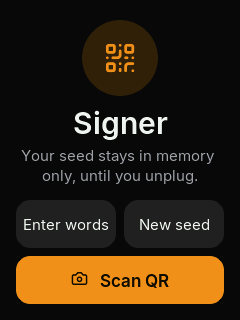
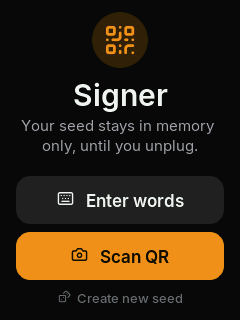
Home: group Scan QR with Enter words, set Create new seed apart
Both load a seed you have, so they stack together at the bottom; making a
new seed is a separate job and becomes a quiet link below them.

diff --git a/firmware/src/app/ui.cpp b/firmware/src/app/ui.cpp
@@ -72,22 +72,22 @@ static lv_obj_t *qr_card(lv_obj_t *parent, int y, lv_obj_t **qr_out) {
 }
 
 // ---------------------------------------------------------------- home
+static lv_obj_t *quiet_link(lv_obj_t *parent, const char *s, lv_event_cb_t cb, void *ud);
+
 static void build_home() {
     lv_obj_t *scr = screen();
-    lv_obj_align(icon_badge(scr, ICON_QR, ACCENT, ACCENT_DIM, 76), LV_ALIGN_TOP_MID, 0, 20);
-    lv_obj_align(text(scr, "Signer", &inter_30_semi, TEXT), LV_ALIGN_TOP_MID, 0, 104);
-    lv_obj_align(para(scr, "Your seed stays in memory only, until you unplug."), LV_ALIGN_TOP_MID, 0, 146);
-    // Two secondary ways in, same height as the primary so the three read as a set.
-    const char *labels[] = {"Enter words", "New seed"};
-    const UiScreen dest[] = {UI_RESTORE, UI_NEW_SEED};
-    for (int i = 0; i < 2; i++) {
-        lv_obj_t *b = btn_ghost(scr, labels[i], go_cb, GO(dest[i]), TEXT);
-        lv_obj_set_size(b, (CW - 8) / 2, 48);
-        lv_obj_set_style_bg_opa(b, LV_OPA_COVER, 0);
-        lv_obj_set_style_text_font(lv_obj_get_child(b, 0), &inter_15, 0);   // half width: 17px is too tight
-        lv_obj_align(b, i ? LV_ALIGN_BOTTOM_RIGHT : LV_ALIGN_BOTTOM_LEFT, i ? -M : M, -M - 48 - 8);
-    }
-    place_bottom(btn_primary(scr, ICON_CAMERA "   Scan QR", go_cb, GO(UI_SCAN_SEED)));
+    lv_obj_align(icon_badge(scr, ICON_QR, ACCENT, ACCENT_DIM, 56), LV_ALIGN_TOP_MID, 0, 12);
+    lv_obj_align(text(scr, "Signer", &inter_30_semi, TEXT), LV_ALIGN_TOP_MID, 0, 76);
+    lv_obj_align(para(scr, "Your seed stays in memory only, until you unplug."), LV_ALIGN_TOP_MID, 0, 116);
+    // Loading a seed you have: scan it or type it, grouped at the bottom.
+    lv_obj_t *words = btn_ghost(scr, ICON_KEYBOARD "   Enter words", go_cb, GO(UI_RESTORE), TEXT);
+    lv_obj_set_height(words, 48);
+    lv_obj_set_style_bg_opa(words, LV_OPA_COVER, 0);
+    lv_obj_align(words, LV_ALIGN_BOTTOM_MID, 0, -40 - 48 - 8);
+    lv_obj_t *scan = btn_primary(scr, ICON_CAMERA "   Scan QR", go_cb, GO(UI_SCAN_SEED));
+    lv_obj_align(scan, LV_ALIGN_BOTTOM_MID, 0, -40);
+    // Making a new seed is a different job, so it sits apart and quieter.
+    lv_obj_align(quiet_link(scr, ICON_DICE "  Create new seed", go_cb, GO(UI_NEW_SEED)), LV_ALIGN_BOTTOM_MID, 0, -4);
     show(scr);
 }
 
